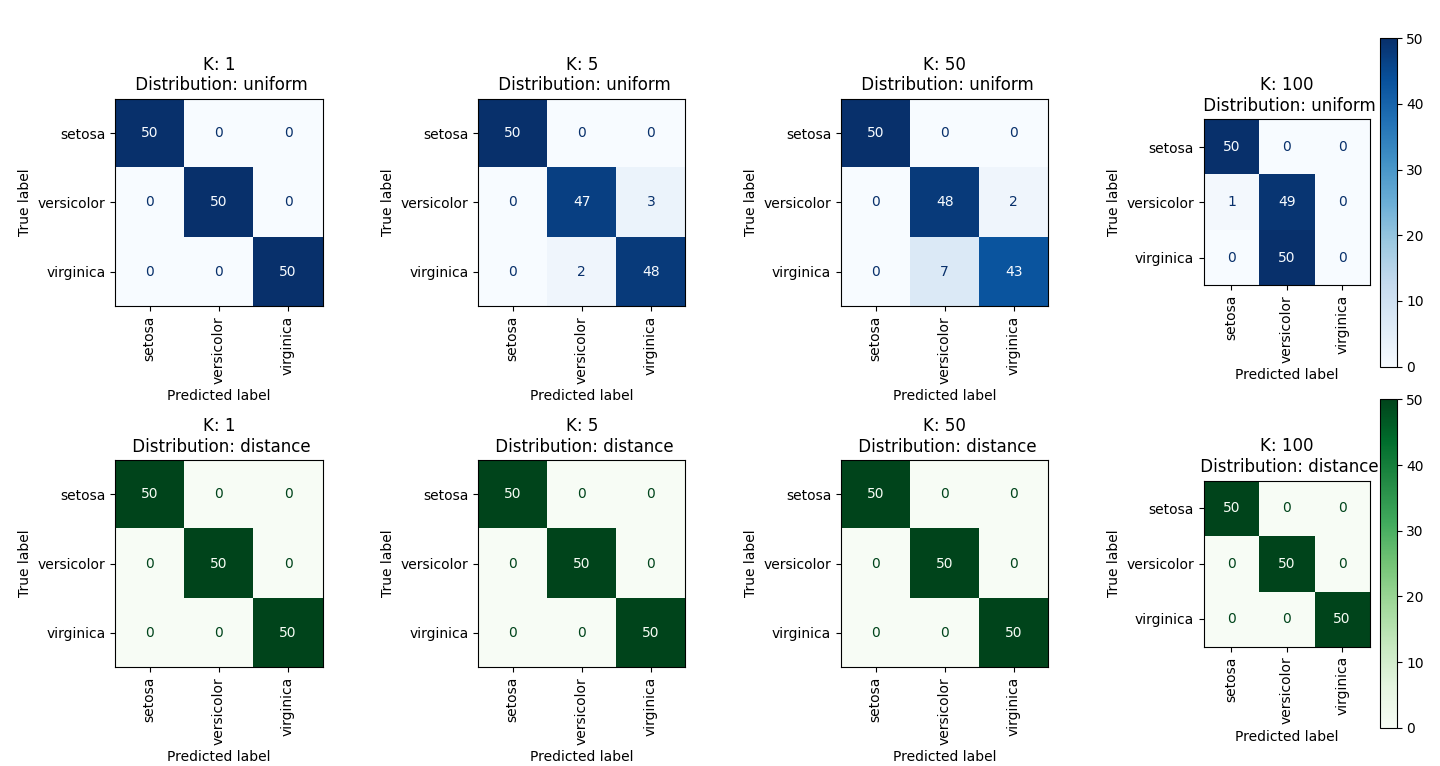
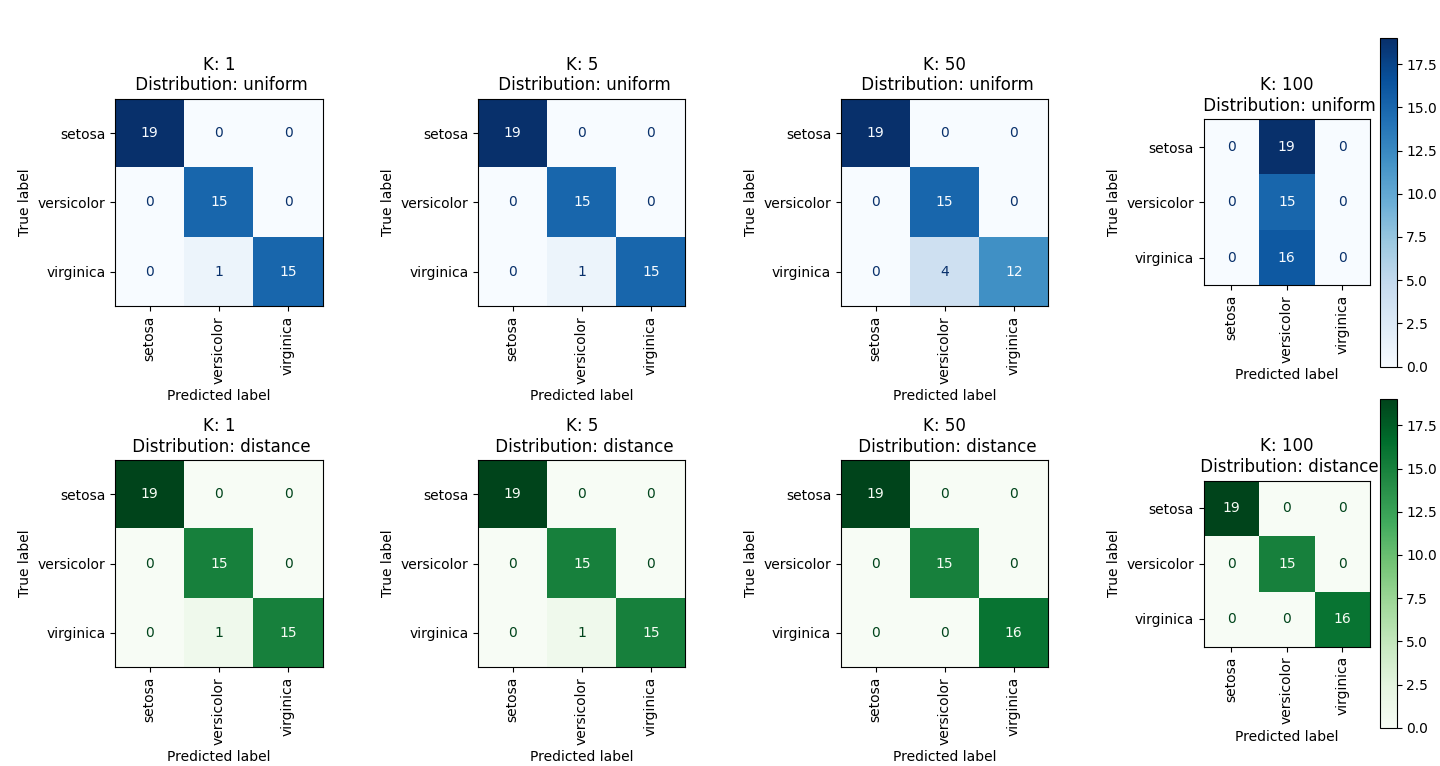
add training vs test data

diff --git a/assignment2/src/k_nearest.py b/assignment2/src/k_nearest.py
@@ -4,6 +4,7 @@ import numpy as np
 import matplotlib.pyplot as plt
 from sklearn import neighbors, datasets
 from sklearn.metrics import plot_confusion_matrix
+from sklearn.model_selection import train_test_split
 
 # task 3
 # Use k-nearest neighbours to classify the iris data set with some different values for k,
@@ -35,16 +36,20 @@ plt.tight_layout()
 col = 0
 row = 0
 
+X_train, X_test, y_train, y_test = train_test_split(
+    X, y, test_size=0.33, random_state=42)
+
+
 for n_neighbors in n_neighbors_array:
     for weights in distributions:
 
         # create an instance of Neighbours Classifier and fit the data.
         clf = neighbors.KNeighborsClassifier(n_neighbors, weights=weights)
-        clf.fit(X, y)
+        clf.fit(X_train, y_train)
 
         # create confusion matrix
         conf_plot = plot_confusion_matrix(
-            clf, X, y, display_labels=target_names, ax=ax[row, col],  cmap=plt.get_cmap("Greens" if (row % 2 == 1) else "Blues"), xticks_rotation=90)
+            clf, X_test, y_test, display_labels=target_names, ax=ax[row, col],  cmap=plt.get_cmap("Greens" if (row % 2 == 1) else "Blues"), xticks_rotation=90)
 
         # remove colorbar on plots except first one
         if(col < len(n_neighbors_array) - 1):
